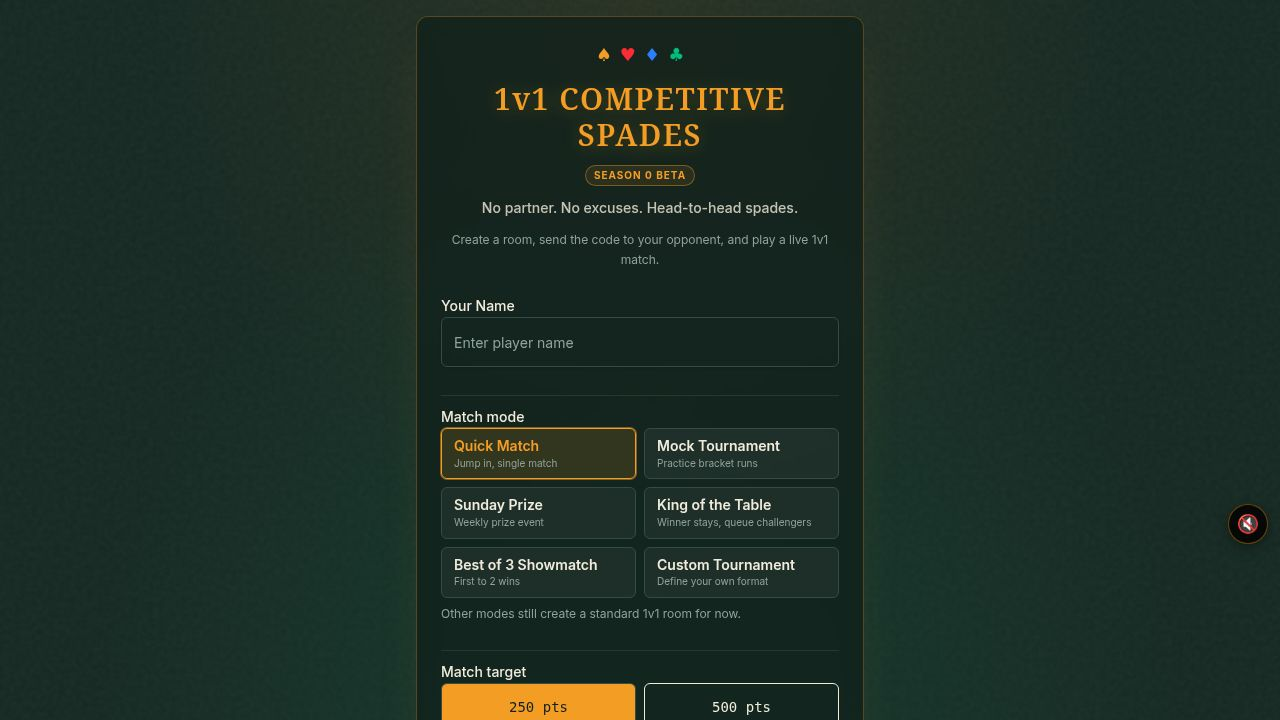
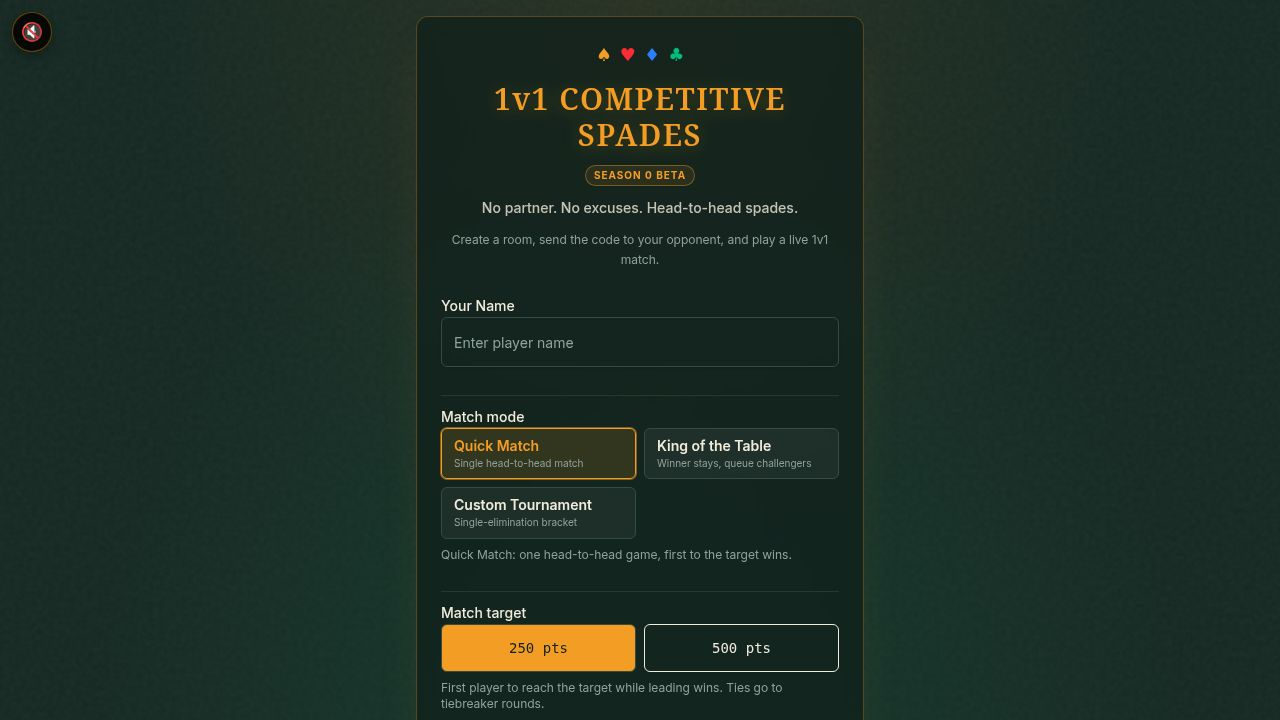
Update tournament lobby to trust server authentication status
Fixes a bug where a player's authentication status in the tournament lobby was incorrectly determined by matching their name against local storage, rather than trusting the server's authenticated flag. This prevented multiple players from joining a tournament if their names happened to match existing entries. The `iAmInRoster` check has been updated to require both a name match and a server-confirmed authenticated status. Additionally, the `authenticated` state is now immediately set to true after a successful join.

Replit-Commit-Author: Agent
Replit-Commit-Session-Id: 558dd6d6-6912-4579-b9a8-1f6ca8bda7b5
Replit-Commit-Checkpoint-Type: full_checkpoint
Replit-Commit-Event-Id: ed416fdb-d9e6-4ac2-925f-4093a132f8ba
Replit-Commit-Screenshot-Url: https://storage.googleapis.com/screenshot-production-us-central1/e0024e70-486a-4b07-a6ba-46e32aedd85c/558dd6d6-6912-4579-b9a8-1f6ca8bda7b5/cXftdLl
Replit-Helium-Checkpoint-Created: true

diff --git a/artifacts/spades-game/src/pages/Tournament.tsx b/artifacts/spades-game/src/pages/Tournament.tsx
@@ -221,6 +221,12 @@ export default function Tournament() {
   const [joining, setJoining] = useState(false);
   const [starting, setStarting] = useState(false);
   const [hostSnapshot, setHostSnapshot] = useState<string | null>(null); // remembered host on join
+  // Server-confirmed authentication: true only after subscribe_tournament
+  // (or a fresh joinTournament call) verifies our token actually matches a
+  // roster entry. Used by `iAmInRoster` to prevent a stale localStorage
+  // `playerName` from making a non-member look like they're already in the
+  // lobby (which previously hid the join form for additional invitees).
+  const [authenticated, setAuthenticated] = useState(false);
 
   useEffect(() => { connect(); }, [connect]);
 
@@ -249,9 +255,12 @@ export default function Tournament() {
   useEffect(() => {
     if (!connected || !code) return;
     const token = getTournamentToken(code) || undefined;
-    subscribeTournament(code, playerName || undefined, token).catch((err) => {
-      toast({ description: typeof err === "string" ? err : "Tournament not found", variant: "destructive" });
-    });
+    subscribeTournament(code, playerName || undefined, token)
+      .then((res) => setAuthenticated(res.authenticated))
+      .catch((err) => {
+        setAuthenticated(false);
+        toast({ description: typeof err === "string" ? err : "Tournament not found", variant: "destructive" });
+      });
     // eslint-disable-next-line react-hooks/exhaustive-deps
   }, [connected, code]);
 
@@ -302,10 +311,15 @@ export default function Tournament() {
   };
 
   const t = tournament && tournament.code === code ? tournament : null;
+  // iAmInRoster requires server-confirmed authentication AND a name match.
+  // Without the `authenticated` gate, a fresh invitee whose localStorage
+  // happens to hold a name already in the roster (e.g. a recycled device
+  // or a common name) would have the join form hidden — which is the root
+  // cause of "invite only works for one person."
   const iAmInRoster = useMemo(() => {
-    if (!t || !playerName) return false;
+    if (!t || !playerName || !authenticated) return false;
     return t.players.some((p) => p.name.trim().toLowerCase() === playerName.trim().toLowerCase());
-  }, [t, playerName]);
+  }, [t, playerName, authenticated]);
 
   // Track who looks like the host for THIS browser (we can't get socketId from
   // the sanitized state, so we trust the user's view: host is whoever's name
@@ -328,6 +342,10 @@ export default function Tournament() {
       const existing = getTournamentToken(code) || undefined;
       const res = await joinTournament(code, nameInput.trim(), existing);
       saveTournamentToken(code, res.token);
+      // Server just issued (or reattached) our token — we are now provably
+      // in the roster. Flip the gate immediately so the UI swaps from the
+      // join form to the invite panel without waiting for a re-subscribe.
+      setAuthenticated(true);
       toast({ description: "Joined tournament" });
     } catch (err: unknown) {
       toast({ description: typeof err === "string" ? err : "Failed to join", variant: "destructive" });

diff --git a/.agents/memory/spades-roster-membership-auth.md b/.agents/memory/spades-roster-membership-auth.md
@@ -1,0 +1,16 @@
+---
+name: Spades client roster membership must trust server auth
+description: Don't gate "am I in this lobby?" UI on a localStorage name compare — use the server-confirmed authenticated flag.
+---
+
+# Spades client roster membership must trust server auth
+
+**Rule:** When deciding whether the local user is "in" a tournament/room roster, the client MUST gate on the server-confirmed `authenticated` flag returned by `subscribe_tournament` (or the equivalent room subscribe), in addition to any name/identity match. A pure name compare against localStorage is wrong.
+
+**Why:** Player names are non-unique and localStorage names get recycled across games and shared devices. The first time this bit us, an invitee with a stale `playerName` matching an existing roster entry got `iAmInRoster=true` on the client, hiding the join form and producing the user-visible symptom "the invite link only works for one person." The server was correct the whole time — it returned `authenticated: false` for the unauthenticated session — but the client threw that signal away.
+
+**How to apply:**
+- Any `iAmInRoster` / `iAmInRoom` / `iAmSeated` derivation must combine `authenticated` (from subscribe response) with the identity match, never just identity alone.
+- After a fresh `joinTournament` / `joinRoom` succeeds, set the local `authenticated` flag immediately — the server just issued the token, so we know we're in.
+- On subscribe failure or disconnect, reset `authenticated` to false so the UI doesn't continue trusting a stale session.
+- Same pattern applies to any future "am I the host" / "am I a seated player" derivations — never trust localStorage name compares as authorization, even for UI-only decisions.

diff --git a/.agents/memory/MEMORY.md b/.agents/memory/MEMORY.md
@@ -3,3 +3,4 @@
 - [Spades room-lock teardown](spades-room-lock-teardown.md) — destructive room teardown (remake/forfeit) MUST run inside `withRoomLock(roomCode)` or stale in-flight commits resurrect the room post-cleanup.
 - [Spades delayed-merge state preservation](spades-delayed-merge-fields.md) — handlePlayResult's 700ms reveal merge must carry forward every "transient" field set during the delay (lastActiveAt, isPaused, roster) or admin/connectivity state silently regresses.
 - [Spades engine tests run with tsx](spades-engine-tests-tsx.md) — `.test.mts` files import `../tournament.js` ESM-style; only `npx tsx` resolves `.js`→`.ts`, `node --experimental-strip-types` does not.
+- [Spades client roster membership must trust server auth](spades-roster-membership-auth.md) — never gate `iAmInRoster`-style UI on a localStorage name compare; combine with the server-confirmed `authenticated` flag or invitees collide.